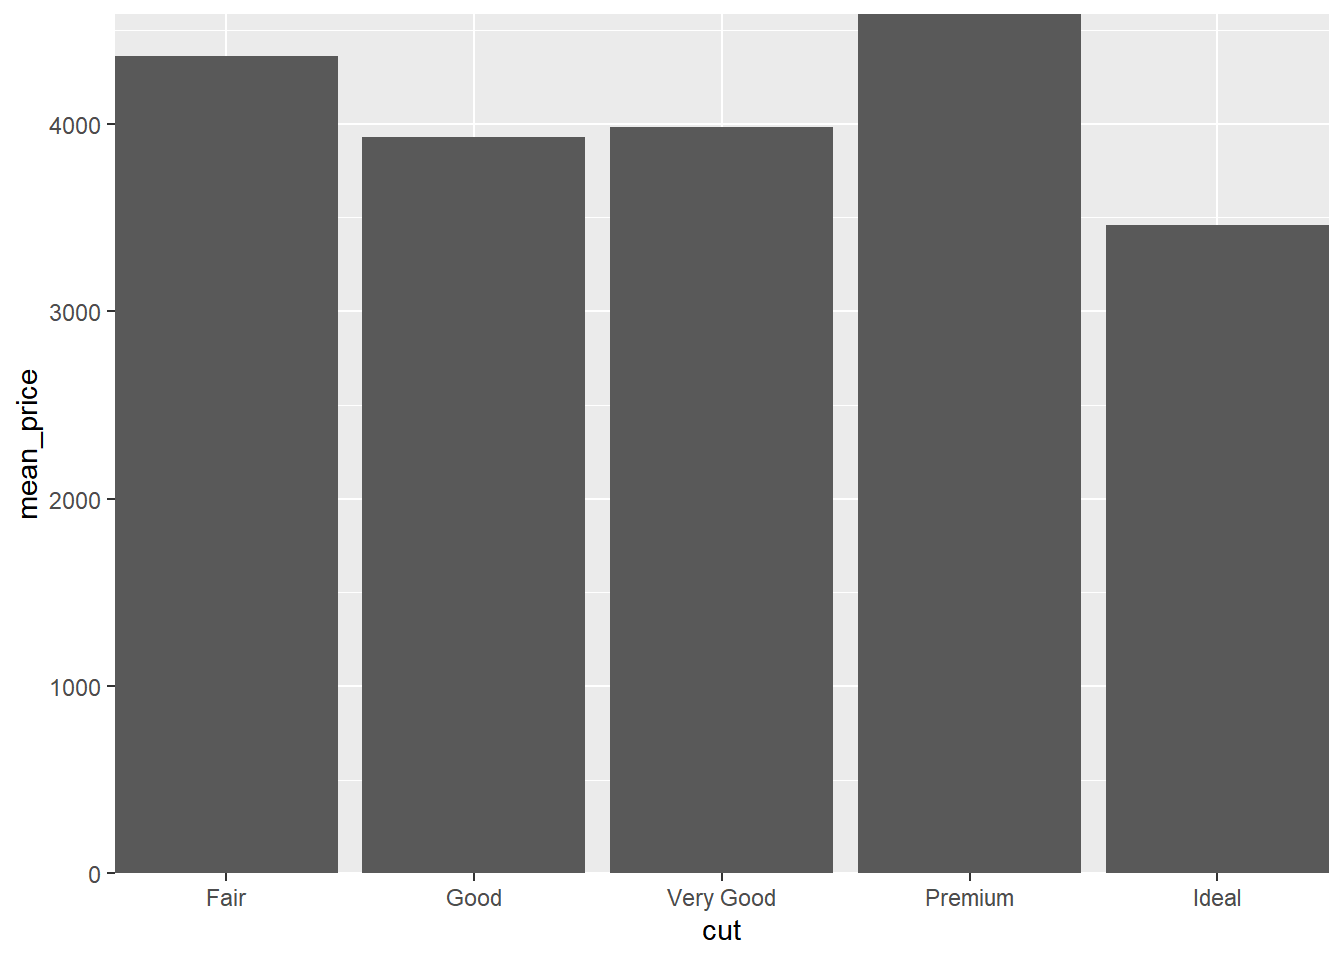
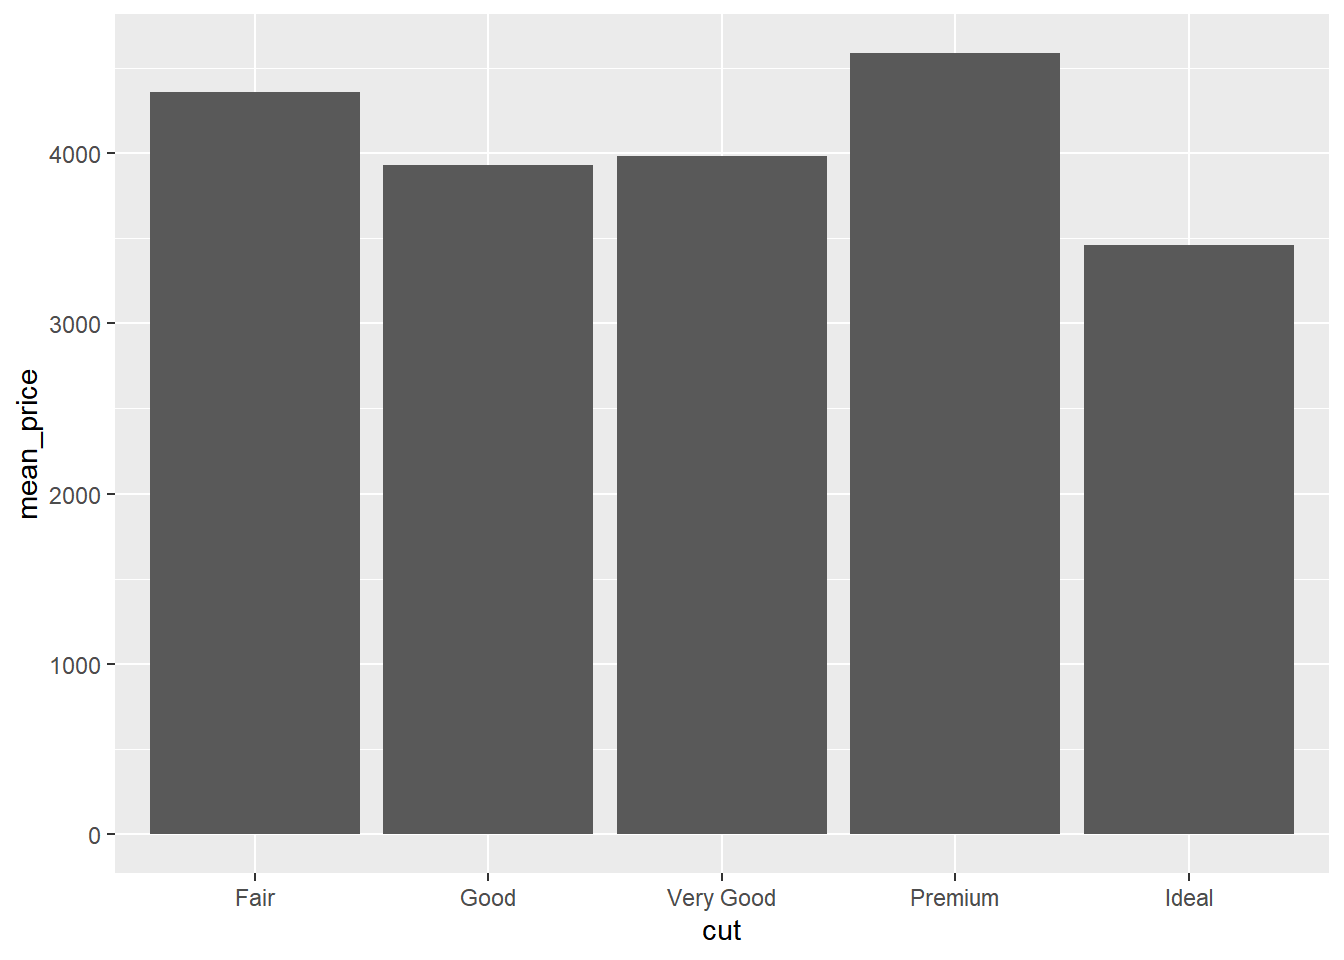
delete the sample files

Changed region(s): [[0.0312, 0.0, 1.0, 0.9688]]

diff --git a/content/post/2021-03-27-r-ggplot2/index.html b/content/post/2021-03-27-r-ggplot2/index.html
@@ -89,7 +89,7 @@ head(diamonds,5) </code></pre>
   summarise(mean_price = mean(price)) %&gt;% 
   ggplot(aes(x=cut, y=mean_price)) + 
   geom_bar(stat = &quot;identity&quot;) + 
-  coord_cartesian(expand = FALSE)</code></pre>
+  coord_cartesian(expand = TRUE)</code></pre>
 <pre><code>## `summarise()` ungrouping output (override with `.groups` argument)</code></pre>
 <p><img src="{{< blogdown/postref >}}index_files/figure-html/unnamed-chunk-5-1.png" width="672" /></p>
 </div>
